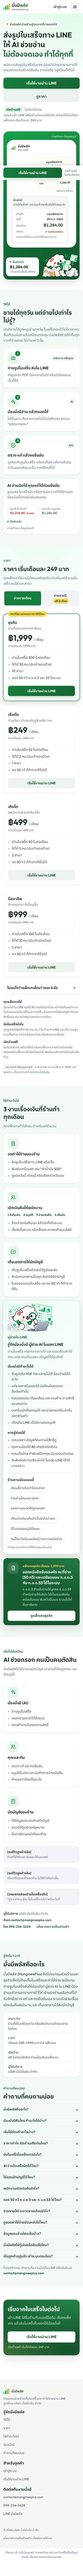
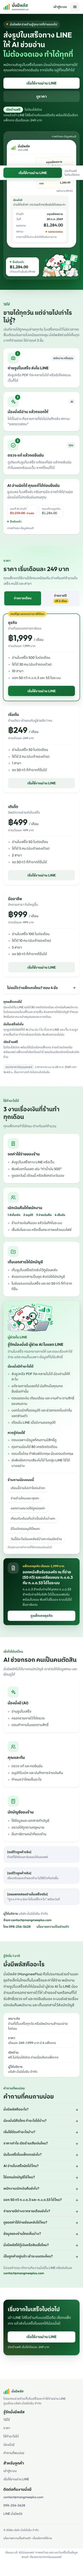
docs: v3 website gets a green fade hero, load and scroll motion, card hover and a stronger mint tint
Hero, ENTERPRISE band and close panel share a dark-to-light green fade
like the owner's reference. The chat plays in order on load with a scan
line over the receipt, cards rise on scroll and lift on hover, and all
motion stops under reduced-motion. Section tint moves to #E3F3E8.

Claude-Session: https://claude.ai/code/session_01J7ScAcuHmAWY52w61WzGcF

Changed region(s): [[0.0, 0.0, 1.0, 0.1247], [0.0299, 0.5924, 0.8077, 0.6548], [0.0299, 0.8731, 0.6581, 0.9354]]

diff --git a/docs/agent-memory/mangmee-main-website-prototype-2026-10-20.md b/docs/agent-memory/mangmee-main-website-prototype-2026-10-20.md
@@ -285,3 +285,16 @@ Decisions:
 - น้องมั่งมี block: 6 real questions from scripts/line-ai-expense-advisor/corpus.*.json as chat bubbles; refusal cases (invoice, P&L, stock) excluded.
 - Process slip: the first push of this round (commit "v3 sales copy leads with…") carried only the FAQ doc edits and screenshots because the doc script failed on a duplicate line; the follow-up commit adds the rest of the docs.
 Verification: Chromium 1440/390 no overflow (home 6445 / 12080, pricing 3121 / 5489); chooser logic node cases (unanswered→ธุรกิจ 1,999; staff 3–5→เติบโต; staff+receipts 51–100→มืออาชีพ; tax→ธุรกิจ; yearly→19,990); JSON-LD blocks parse; FAQ parity 14/14; canvas version 18.
+
+## Revision 3k — green fade, motion, hover, stronger tint
+
+Status: Complete — prototype only.
+Trigger: Owner: wants a green fade like a dark-to-light blue reference image; animation with moving data/images, cards that pop, hover; light-green background blends into white.
+Decisions:
+- FADE = linear-gradient(135deg,#03200F,#0A3A1F 38%,#11502B 70%,#16743A) on the hero band (now `.hero.dark`), ENT band and close panel. Hero type white / #86EFAC / #D1FAE5; hero primary button white, secondary 12% white; chat panel becomes a frosted-white layer; phone and confirmed card reset to ink colour (they inherited white at first — caught in render).
+- `.alt` #E3F3E8 (was #F3FAF5); pricing glow and น้องมั่งมี wash strengthened.
+- Load sequence (CSS keyframes, delays): copy rises line by line, receipt pops, green scan line loops over the receipt, bot reply rises, "ยืนยันแล้ว" pops, mascot floats, featured plan ring pulses.
+- Scroll reveal via `animation-timeline:view()` inside @supports; keyframes animate `translate`, not `transform`, because a filled transform animation cancelled the hover lift (found: hovered card transform stayed identity).
+- Hover: cards lift 6px with deeper shadow, icons scale/tilt, ask bubbles lift. All motion and lifts off under prefers-reduced-motion.
+Verification: Chromium 1440/390 no overflow; hero frames at 0.3/0.9/1.5/2.6 s show the sequence; hover on a plan card → matrix(...,-6); scroll test at 1440 (700px steps): 0 in-view sections left transparent at every step; reduced-motion full-page renders for evidence; tags balanced; canvas version 19.
+Limits: renderer is not the canvas runtime; Safari support for scroll-driven animation not checked (fallback shows content without the reveal).

diff --git a/docs/prototypes/mangmee-main-website/v3/README.md b/docs/prototypes/mangmee-main-website/v3/README.md
@@ -131,6 +131,14 @@
 - กล่องน้องมั่งมีมีตัวอย่างคำถามจริง 6 ข้อจากชุดทดสอบน้องมั่งมี
 - ลดจุดคั่นกลาง “·” ในข้อความ
 
+### รอบ 11: เขียวไล่เฉด ภาพเคลื่อนไหว และการ์ดที่ตอบสนอง
+
+- ภาพแรกทั้งแถบเป็นเขียวไล่เฉดแบบภาพตัวอย่าง (เข้มซ้ายบน สว่างขวาล่าง) ใช้เฉดเดียวกันกับกล่องแพ็กเกจธุรกิจและกล่องปิดท้าย
+- เปิดหน้าแล้วภาพแชตเล่นเป็นลำดับ: ใบเสร็จเด้งเข้า เส้นสแกนวิ่ง น้องมั่งมีตอบ การ์ด “ยืนยันแล้ว” เด้งขึ้น ตัวการ์ตูนลอย
+- เลื่อนหน้าแล้วการ์ดค่อย ๆ ขึ้นมา ชี้เมาส์แล้วการ์ดยกขึ้น การ์ดแพ็กเกจที่เด่นมีวงแสงเต้น
+- พื้นเขียวอ่อนเข้มขึ้น ไม่กลืนกับขาวแล้ว
+- คนที่ตั้งเครื่องให้ลดการเคลื่อนไหว จะไม่เห็นภาพเคลื่อนไหว
+
 ## เรื่องที่รอคุณตัดสินใจ
 
 1. **ลิงก์เข้าสู่ระบบ** คุณให้ `app.mangmeeplus.com/login` แต่ระบบปัจจุบันใช้ `mangmeeplus.com/login` ตอนนี้ต้นแบบใช้ลิงก์ที่คุณให้ ต้องเลือกหนึ่งอัน
